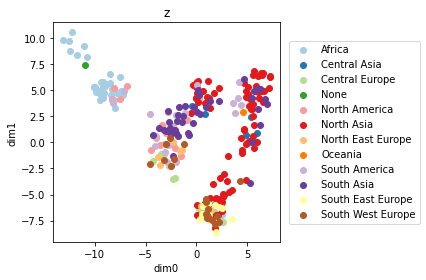
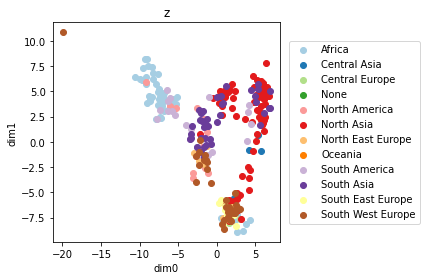
:sparkles: Add function to generate projection CSV/plots

diff --git a/src/visualization/projection.py b/src/visualization/projection.py
@@ -1,18 +1,79 @@
-__all__ = ["plot_projection"]
+__all__ = ["generate_projection", "plot_projection"]
 
 from os import PathLike
 from pathlib import Path
 from typing import Dict, Union
 
 import numpy as np
+import pandas as pd
 import matplotlib.pyplot as plt
 import seaborn as sns
 import torch
+import pytorch_lightning as pl
 from sklearn.manifold import TSNE
 
+from src.models.extraction.base import BaseVAE
 from src.models.logger import CSVLogger
 
-PROJECTION_FILENAME = "projection.png"
+PROJECTION_CSV_FILENAME = "projection.csv"
+PROJECTION_IMG_FILENAME = "projection.png"
+PROJECTION_IMG_ALL_FILENAME = "projection_all.png"
+
+
+def generate_projection(
+    logger_or_path: Union[CSVLogger, PathLike],
+    model: BaseVAE,
+    datamodule: pl.LightningDataModule,
+    sample_size: int = 300,
+    use_tsne: bool = False,
+) -> None:
+    """Generates a projection for every sample (as a CSV file) in the dataset
+    and plots all and a random subset of projections.
+
+    Parameters
+    ----------
+    logger_or_path : src.models.logger.CSVLogger or os.PathLike
+        Logger object or file path to save projections CSV as
+    model : BaseVAE
+        Trained feature extraction model
+    datamodule : pytorch_lightning.LightningDataModule
+        Data module, where to obtain a predict dataloader
+    sample_size : int, optional
+        Number of samples for the sample plot, by default 300
+    use_tsne : bool, optional
+        Whether to use t-SNE to further reduce the number of dimensions of the
+        projections to 2, by default False
+    """
+    if isinstance(logger_or_path, CSVLogger):
+        csv_filepath = Path(logger_or_path.log_dir, PROJECTION_CSV_FILENAME)
+    else:
+        csv_filepath = Path(logger_or_path)
+
+    dataloader = datamodule.predict_dataloader()
+    data = []
+    colnames = [f"z{i}" for i in range(model.latent_features)]
+    for x, y in dataloader:
+        z = model.project(x)
+        df = pd.DataFrame(z, columns=colnames, index=y.numpy().flatten())
+        data.append(df)
+    data = pd.concat(data)
+    data.index.name = "y"
+    data.to_csv(csv_filepath)
+
+    img_filepath = csv_filepath.parent / PROJECTION_IMG_ALL_FILENAME
+    plot_projection(
+        img_filepath, data.index.values, data.values, datamodule.idx_to_class, use_tsne
+    )
+
+    img_filepath = csv_filepath.parent / PROJECTION_IMG_FILENAME
+    sample = data.sample(sample_size)
+    plot_projection(
+        img_filepath,
+        sample.index.values,
+        sample.values,
+        datamodule.idx_to_class,
+        use_tsne,
+    )
 
 
 def plot_projection(
@@ -21,7 +82,7 @@ def plot_projection(
     z: np.ndarray,
     idx_to_class: Dict[int, str],
     use_tsne: bool = False,
-):
+) -> None:
     """Generates a projection plot.
 
     Parameters
@@ -42,7 +103,7 @@ def plot_projection(
         z = TSNE(n_components=2, init="pca")
 
     if isinstance(logger_or_path, CSVLogger):
-        projection_filepath = Path(logger_or_path.log_dir, PROJECTION_FILENAME)
+        projection_filepath = Path(logger_or_path.log_dir, PROJECTION_IMG_FILENAME)
     else:
         projection_filepath = logger_or_path
 

diff --git a/src/models/prediction/shallow.py b/src/models/prediction/shallow.py
@@ -10,7 +10,8 @@ from src.models.layers import make_2d
 from src.models.logger import CSVLogger
 from src.models.prediction.base import PredictionModel
 from src.models.training import train_model
-from src.visualization import plot_metrics
+from src.visualization.metrics import plot_metrics
+from src.visualization.projection import generate_projection
 
 
 class ShallowNN(PredictionModel):
@@ -22,20 +23,24 @@ class ShallowNN(PredictionModel):
         Number of input features
     num_classes : int
         Number of target classes
-    num_units : int, optional
+    latent_features : int, optional
         Number of neurons in the hidden layer, by default 2
     lr : float, optional
         Learning rate, by default 1e-3
     """
 
     def __init__(
-        self, num_features: int, num_classes: int, num_units: int = 2, lr: float = 1e-3
+        self,
+        num_features: int,
+        num_classes: int,
+        latent_features: int = 2,
+        lr: float = 1e-3,
     ):
         super().__init__()
         self.network = nn.Sequential(
-            nn.Linear(num_features, num_units),
+            nn.Linear(num_features, latent_features),
             nn.SiLU(),
-            nn.Linear(num_units, num_classes),
+            nn.Linear(latent_features, num_classes),
             nn.LogSoftmax(dim=1),
         )
         self.save_hyperparameters()
@@ -79,6 +84,9 @@ def main(num_processes, num_units, version) -> None:
 
     # Plot metrics
     plot_metrics(logger, (10, 4))
+
+    # Project and plot
+    generate_projection(logger, model, data, use_tsne=num_units > 2)
 
 
 if __name__ == "__main__":

diff --git a/src/models/extraction/vae.py b/src/models/extraction/vae.py
@@ -11,7 +11,7 @@ from src.models.layers import LinearStack
 from src.models.logger import CSVLogger
 from src.models.training import train_model
 from src.visualization.metrics import plot_metrics
-from src.visualization.projection import plot_projection
+from src.visualization.projection import generate_projection
 
 
 class VAE(BaseVAE):
@@ -90,9 +90,7 @@ def main(num_processes, latent_features, num_units, dropout, lr, beta, version) 
     plot_metrics(logger, (5, 4))
 
     # Project and plot
-    x, y = next(iter(data.predict_dataloader()))
-    z = model.project(x)
-    plot_projection(logger, y, z, data.idx_to_class)
+    generate_projection(logger, model, data, use_tsne=latent_features > 2)
 
 
 if __name__ == "__main__":

diff --git a/src/models/extraction/lc_vae.py b/src/models/extraction/lc_vae.py
@@ -16,7 +16,7 @@ from src.models.layers import Block, LCLayer, LCStack, pad
 from src.models.logger import CSVLogger
 from src.models.training import train_model
 from src.visualization.metrics import plot_metrics
-from src.visualization.projection import plot_projection
+from src.visualization.projection import generate_projection
 
 
 def _find_padding(
@@ -214,9 +214,7 @@ def main(
     plot_metrics(logger, (5, 4))
 
     # Project and plot
-    x, y = next(iter(data.predict_dataloader()))
-    z = model.project(x)
-    plot_projection(logger, y, z, data.idx_to_class)
+    generate_projection(logger, model, data, use_tsne=latent_features > 2)
 
 
 if __name__ == "__main__":

diff --git a/src/visualization/__init__.py b/src/visualization/__init__.py
@@ -1,4 +1,4 @@
-__all__ = ["plot_grid", "plot_metrics", "plot_projection"]
+__all__ = ["generate_projection", "plot_grid", "plot_metrics", "plot_projection"]
 
 from src.visualization.metrics import plot_grid, plot_metrics
-from src.visualization.projection import plot_projection
+from src.visualization.projection import plot_projection, generate_projection
